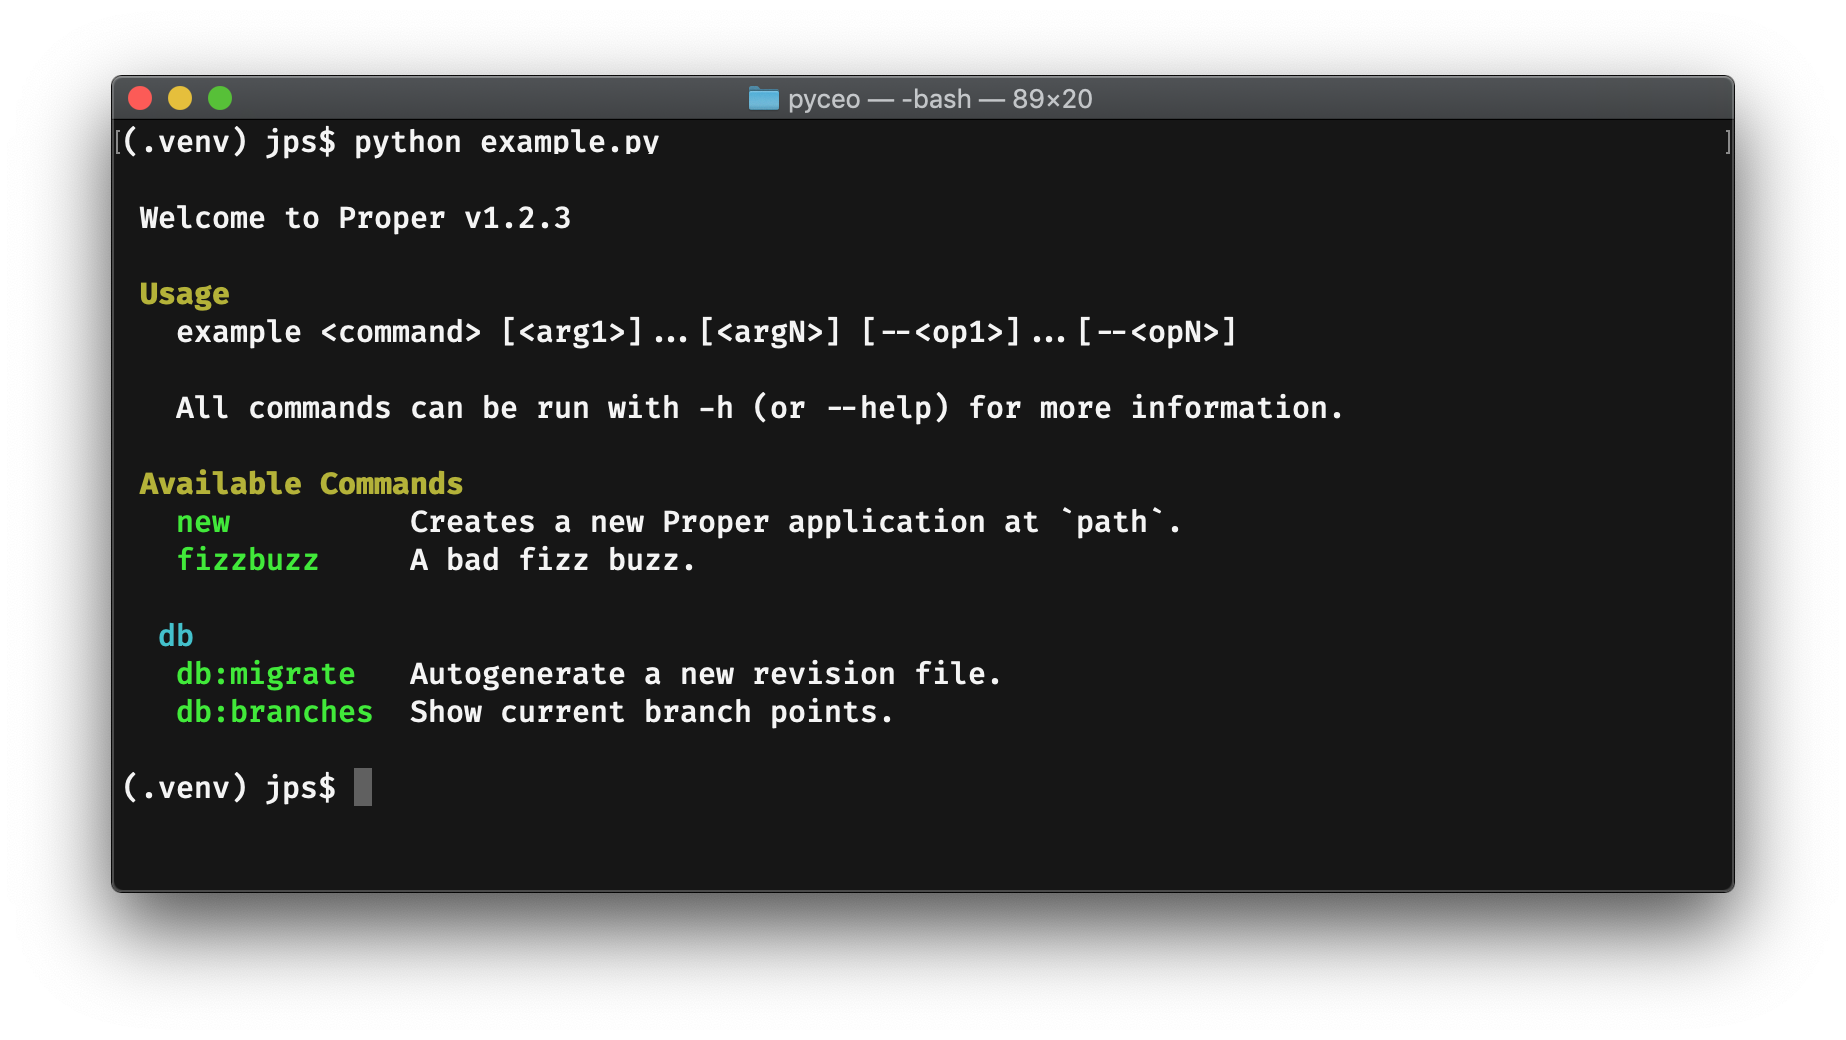
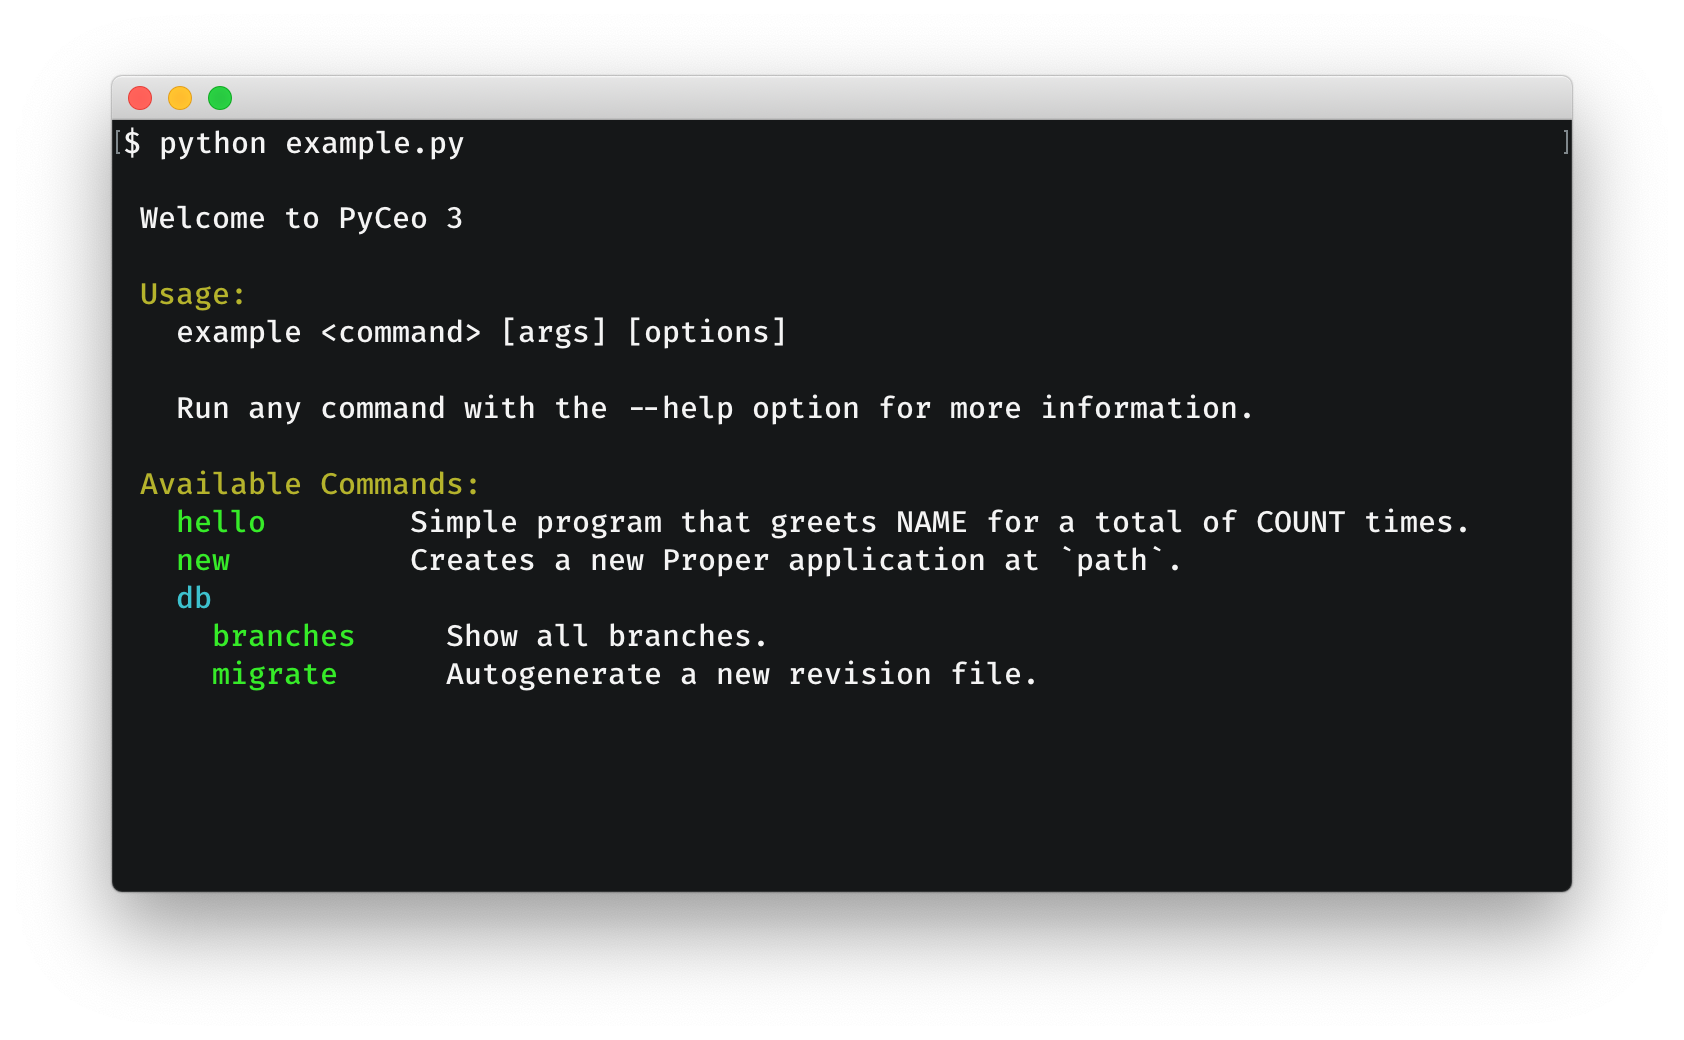
Update output

Changed region(s): [[0.0309, 0.0615, 0.9572, 0.9231], [0.5867, 0.3077, 0.6793, 0.3385], [0.5867, 0.6462, 0.6176, 0.6769]]

diff --git a/pyceo/helpers.py b/pyceo/helpers.py
@@ -5,36 +5,40 @@ def echo(text="", aliases=STYLE_ALIASES):
     print(style(text, aliases=aliases))
 
 
-def ask(text, default=None, options=None):
+def ask(question, default=None, alternatives=None):
     """Ask a question via input() and return their answer.
 
     Arguments:
-    - text (str): Question text
+    - question (str): The text of the question.
     - default (any): Default value if no answer is provided.
-    - options (str): Options to display
+    - alternatives (str): Alternatives to display
     """
-    ops = options or default
-    text += f" [{str(ops)}] " if ops else ""
+    ops = alternatives or default
+    question += f" [{str(ops)}] " if ops else ""
     while True:
-        resp = input(text)
+        resp = input(question)
         if resp:
             return resp
         if default is not None:
             return default
 
 
-def confirm(text, default=False, yes_choices=None, no_choices=None):
-    """Ask a yes/no question via pycero.ask() and return their answer.
+YES_CHOICES = ('y', 'yes', 't', 'true', 'on', '1')
+NO_CHOICES = ('n', 'no', 'f', 'false', 'off', '0')
+
+
+def confirm(question, default=False, yes_choices=YES_CHOICES, no_choices=NO_CHOICES):
+    """Ask a yes/no question via pyceo.ask() and return their answer.
 
     Arguments:
-    - text (str): prompt text
-    - default (bool): default value if no answer is provided.
-    - yes_choices (list): default 'y', 'yes', '1', 'on', 'true', 't'
-    - no_choices (list): default 'n', 'no', '0', 'off', 'false', 'f'
+    - question (str): Prompt question
+    - default (bool): Default value if no answer is provided.
+    - yes_choices (list): Default 'y', 'yes', '1', 'on', 'true', 't'
+    - no_choices (list): Default 'n', 'no', '0', 'off', 'false', 'f'
 
     """
-    yes_choices = yes_choices or ('y', 'yes', 't', 'true', 'on', '1')
-    no_choices = no_choices or ('n', 'no', 'f', 'false', 'off', '0')
+    yes_choices = yes_choices or YES_CHOICES
+    no_choices = no_choices or NO_CHOICES
 
     default_value = yes_choices[0] if default else no_choices[0]
     if default is None:
@@ -46,7 +50,7 @@ def confirm(text, default=False, yes_choices=None, no_choices=None):
             options = f"{yes_choices[0]}/{no_choices[0].title()}"
 
     while True:
-        resp = ask(text, default=default_value, options=options)
+        resp = ask(question, default=default_value, options=options)
         if default is not None:
             resp = resp or str(default)
         resp = resp.lower()

diff --git a/example.py b/example.py
@@ -1,54 +1,46 @@
+# example.py
 from pyceo import Cli
 
 
-class Assets(Cli):
-    def build(self):
-        print("You invoked the `assets build` command")
-
-class DB(Cli):
+class DBCli(Cli):
     _intro = "Database-related commands"
 
-    def migrate(self, **kwargs):
+    def migrate(self, message):
         """Autogenerate a new revision file.
 
         This is an alias for "revision --autogenerate".
 
         Arguments:
 
-        - message:
-            Revision message
+        - message: Revision message
+
         """
-        print("You invoked the `db migrate` command")
+        pass
+
+    def branches(self):
+        """Show all branches."""
+        pass
 
 
 class MyCli(Cli):
-    _intro = "Welcome to PyCeo 3."
+    _intro = "Welcome to PyCeo 3"
 
     def new(self, path, quiet=False):
         """Creates a new Proper application at `path`.
 
-        The `proper new` command creates a new Proper application with a default
-        directory structure and configuration at the path you specify.
-
-        Example: `proper new ~/Code/blog`
-        This generates a skeletal Proper application at `~/Code/blog`.
-
         Arguments:
 
-        - path:
-            Where to create the new application.
-        - quiet [False]:
-            Supress all output.
+        - path: Where to create the new application.
+        - quiet [False]: Supress all output.
         """
-        print("You invoked the `new` command")
+        pass
 
-    def a(self):
-        """Whatever"""
-        print("You invoked the `a` command")
+    def hello(count, name):
+        """Simple program that greets NAME for a total of COUNT times."""
+        pass
 
-    # Subcommands
-    assets = Assets
-    db = DB
+    # A subcommand!
+    db = DBCli
 
 
 cli = MyCli()

diff --git a/pyceo/help_mixin.py b/pyceo/help_mixin.py
@@ -71,10 +71,10 @@ class HelpMixin:
         if self._intro:
             intro = textwrap.indent(self._intro.strip(), " ")
             echo(f"\n{intro}")
-        echo(
-            "\n <fg:yellow>Available Commands</fg>"
-            " (run with --help for more information)\n"
-        )
+        echo("\n <fg:yellow>Usage:</fg>")
+        echo(f" {self._indent}{self._parent} <command> [args] [options]\n")
+        echo(f" {self._indent}Run any command with the --help option for more information.")
+        echo("\n <fg:yellow>Available Commands:</fg>")
 
     def _help_body(self):
         for name, cmd in self._commands.items():
@@ -83,14 +83,14 @@ class HelpMixin:
             self._help_list_subcommand(name, cls)
 
     def _help_list_subcommand(self, name, cls):
-        echo(f"{self._indent} <fg:cyan>{name.ljust(COL_SIZE)}</fg>")
-        cli = self._init_subcommand(cls, indent_level=self._indent_level + 1)
+        echo(f" {self._indent}<fg:cyan>{name.ljust(COL_SIZE)}</fg>")
+        cli = self._init_subcommand(name, cls, indent_level=self._indent_level + 1)
         cli._help_body()
 
     def _help_list_command(self, name, cmd):
         doc = cmd.__doc__ or ""
         cmd_help = doc.strip().split("\n")[0]
-        echo(f"{self._indent} <fg:lgreen>{name.ljust(COL_SIZE)}</fg> {cmd_help}")
+        echo(f" {self._indent}<fg:lgreen>{name.ljust(COL_SIZE)}</fg> {cmd_help}")
 
     def _help_command(self, cmd):
         print()

diff --git a/pyceo/main.py b/pyceo/main.py
@@ -12,9 +12,9 @@ INDENT_START_LEVEL = 1
 
 class Cli(HelpMixin):
     _intro = ""
-    _parent = ""
 
-    def __init__(self, *, indent_level=INDENT_START_LEVEL, **env):
+    def __init__(self, *, parent="", indent_level=INDENT_START_LEVEL, **env):
+        self._parent = parent
         self._indent_level = indent_level
         self._env = env
 
@@ -40,18 +40,22 @@ class Cli(HelpMixin):
             return self._command_not_found(name)
 
         if isclass(cmd):
-            return self._run_subcommand(cmd, args, opts)
+            return self._run_subcommand(name, cmd, args, opts)
         return self._run_command(cmd, args, opts)
 
     def _command_not_found(self, name):
         echo(f"\n💥 <fg:red><b>ERROR:</b> Command `{name}` not found</fg> 💥 ")
         self._help()
 
-    def _init_subcommand(self, cls, indent_level=INDENT_START_LEVEL):
-        return cls(indent_level=indent_level, **self._env)
+    def _init_subcommand(self, name, cls, indent_level=INDENT_START_LEVEL):
+        return cls(
+            parent=f"{self._parent} {name}",
+            indent_level=indent_level,
+            **self._env
+        )
 
-    def _run_subcommand(self, cls, args, opts):
-        cli = self._init_subcommand(cls)
+    def _run_subcommand(self, name, cls, args, opts):
+        cli = self._init_subcommand(name, cls)
         if not args:
             if not opts or opts == {HELP_OPT: True}:
                 return cli._help()

diff --git a/tests/test_pyceo.py b/tests/test_pyceo.py
@@ -53,8 +53,12 @@ def test_main_help(get_out_text):
     assert """
  Hello World!
 
- Available Commands (run with --help for more information)
+ Usage:
+   manage <command> [args] [options]
 
+   Run any command with the --help option for more information.
+
+ Available Commands:
    a            AAA
    b            BBB
    foo
@@ -74,8 +78,12 @@ def test_subcommand_help(get_out_text):
     assert """
  Lorem ipsum is placeholder text commonly used for previewing layouts and visual mockups.
 
- Available Commands (run with --help for more information)
+ Usage:
+   manage lorem <command> [args] [options]
 
+   Run any command with the --help option for more information.
+
+ Available Commands:
    ipsum        IPSUM
    sit          SIT
 

diff --git a/README.md b/README.md
@@ -52,7 +52,7 @@ class DBSub(Cli):
 
 class Manage(Cli):
     # A subcommand
-    db = DBSub  # **NOT** `DBSub()`
+    db = DBSub  # NOT `DBSub()`
 ```
 
 ### Context
@@ -70,10 +70,9 @@ Example:
 
 ## An example
 
-![pyceo output](https://github.com/jpsca/pyceo/raw/master/output.png)
+![pyceo output](https://raw.githubusercontent.com/jpsca/pyceo/master/output.png)
 
-This autogenerated (and completely customizable) help message comes from running
-the example below:
+This autogenerated help message is the result of running the example below:
 
 ```python
 # example.py
@@ -83,33 +82,38 @@ from pyceo import Cli
 class DBCli(Cli):
     _intro = "Database-related commands"
 
-    def migrate(self, **kwargs):
+    def migrate(self, message):
         """Autogenerate a new revision file.
 
         This is an alias for "revision --autogenerate".
 
         Arguments:
+
         - message: Revision message
+
         """
+        pass
+
+    def branches(self):
+        """Show all branches."""
         pass
 
 
 class MyCli(Cli):
-    _intro = "This is PyCeo 3"
+    _intro = "Welcome to PyCeo 3"
 
     def new(self, path, quiet=False):
         """Creates a new Proper application at `path`.
 
-        The `proper new` command creates a new Proper application with a default
-        directory structure and configuration at the path you specify.
-
-        Example: `proper new ~/Code/blog`
-        This generates a skeletal Proper application at `~/Code/blog`.
-
         Arguments:
+
         - path: Where to create the new application.
         - quiet [False]: Supress all output.
         """
+        pass
+
+    def hello(count, name):
+        """Simple program that greets NAME for a total of COUNT times."""
         pass
 
     # A subcommand!
@@ -126,24 +130,24 @@ if __name__ == "__main__":
 
 ## Helpers
 
-Apart of the CLI builder, pyceo includes some commonly-used helper functions
+Beyond the CLI builder, pyceo also includes some commonly-used helper functions
 
-### confirm()
+### `confirm(question, default=False, yes_choices=YES_CHOICES, no_choices=NO_CHOICES)`
 
 Ask a yes/no question via and return their answer.
 
-### ask()
+### `ask(question, default=None, alternatives=None)`
 
 Ask a question via input() and return their answer.
 
-### echo()
+### `echo(text)`
 
-Renders a pyceo markup to the terminal.
+Renders a text (possibly decorated with pyceo markup) to the terminal.
 
 
 ## Markup system
 
-pyceo uses a simple markup system for producing colored terminal text. Any text between a tag is printed with its style, and you can combine styles by using nested brightness, foreground, and background tags  (only one for each category).
+Pyceo uses a simple markup system for producing colored terminal text. Any text between a tag is printed with its style, and you can combine styles by using nested brightness, foreground, and background tags (only one for each category).
 
 ### Brightness
 
@@ -152,41 +156,15 @@ pyceo uses a simple markup system for producing colored terminal text. Any text 
 
 ### Foreground color
 
-- `<fg:black> ... </fg>`
-- `<fg:red> ... </fg>`
-- `<fg:green> ... </fg>`
-- `<fg:yellow> ... </fg>`
-- `<fg:blue> ... </fg>`
-- `<fg:magenta> ... </fg>`
-- `<fg:cyan> ... </fg>`
-- `<fg:white> ... </fg>`
-- `<fg:lblack> ... </fg>`
-- `<fg:lred> ... </fg>`
-- `<fg:lgreen> ... </fg>`
-- `<fg:lyellow> ... </fg>`
-- `<fg:lblue> ... </fg>`
-- `<fg:lmagenta> ... </fg>`
-- `<fg:lcyan> ... </fg>`
-- `<fg:lwhite> ... </fg>`
+- `<fg:COLOR> ... </fg>`
+
+Possible colors are `black`, `red`, `green`, `yellow`, `blue`, `magenta`, `cyan`, `white`, `lblack`, `lred`, `lgreen`, `lyellow`, `lblue`, `lmagenta`, `lcyan`, and `lwhite`.
 
 ### Background color
 
-- `<bg:black> ... </bg>`
-- `<bg:red> ... </bg>`
-- `<bg:green> ... </bg>`
-- `<bg:yellow> ... </bg>`
-- `<bg:blue> ... </bg>`
-- `<bg:magenta> ... </bg>`
-- `<bg:cyan> ... </bg>`
-- `<bg:white> ... </bg>`
-- `<bg:lblack> ... </bg>`
-- `<bg:lred> ... </bg>`
-- `<bg:lgreen> ... </bg>`
-- `<bg:lyellow> ... </bg>`
-- `<bg:lblue> ... </bg>`
-- `<bg:lmagenta> ... </bg>`
-- `<bg:lcyan> ... </bg>`
-- `<bg:lwhite> ... </bg>`
+- `<bg:COLOR> ... </bg>`
+
+Possible colors are `black`, `red`, `green`, `yellow`, `blue`, `magenta`, `cyan`, `white`, `lblack`, `lred`, `lgreen`, `lyellow`, `lblue`, `lmagenta`, `lcyan`, and `lwhite`,
 
 
 ## FAQ
